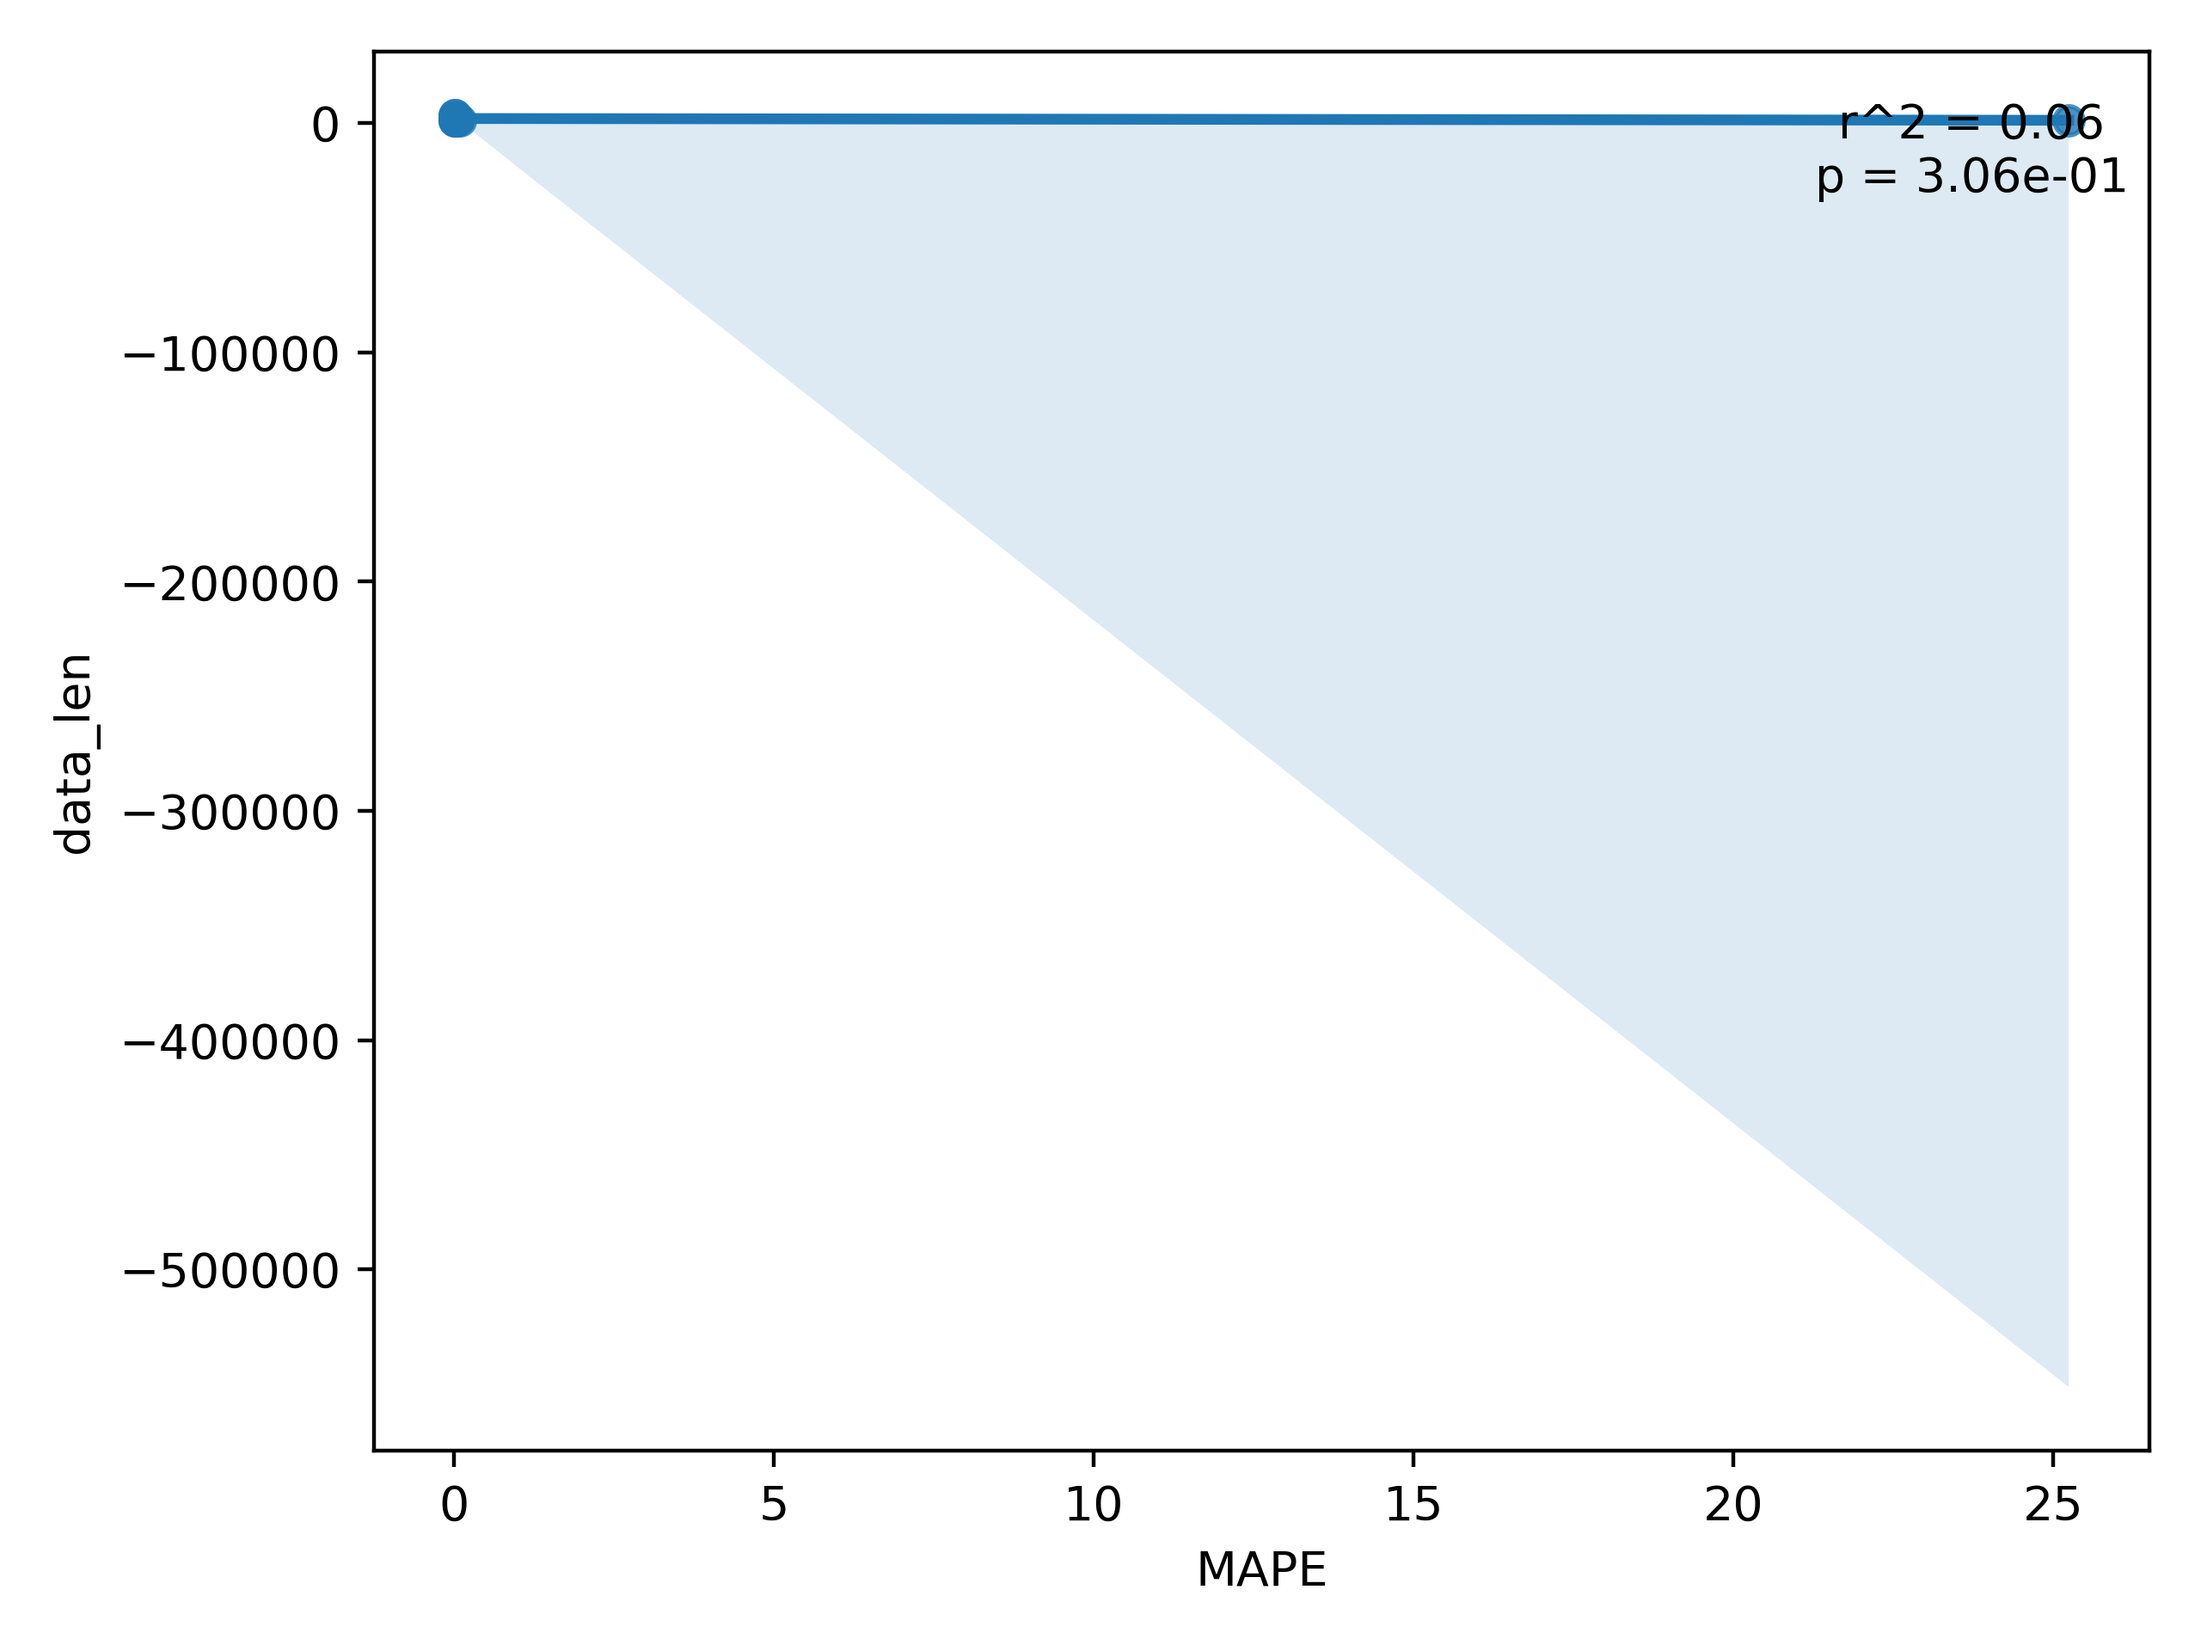
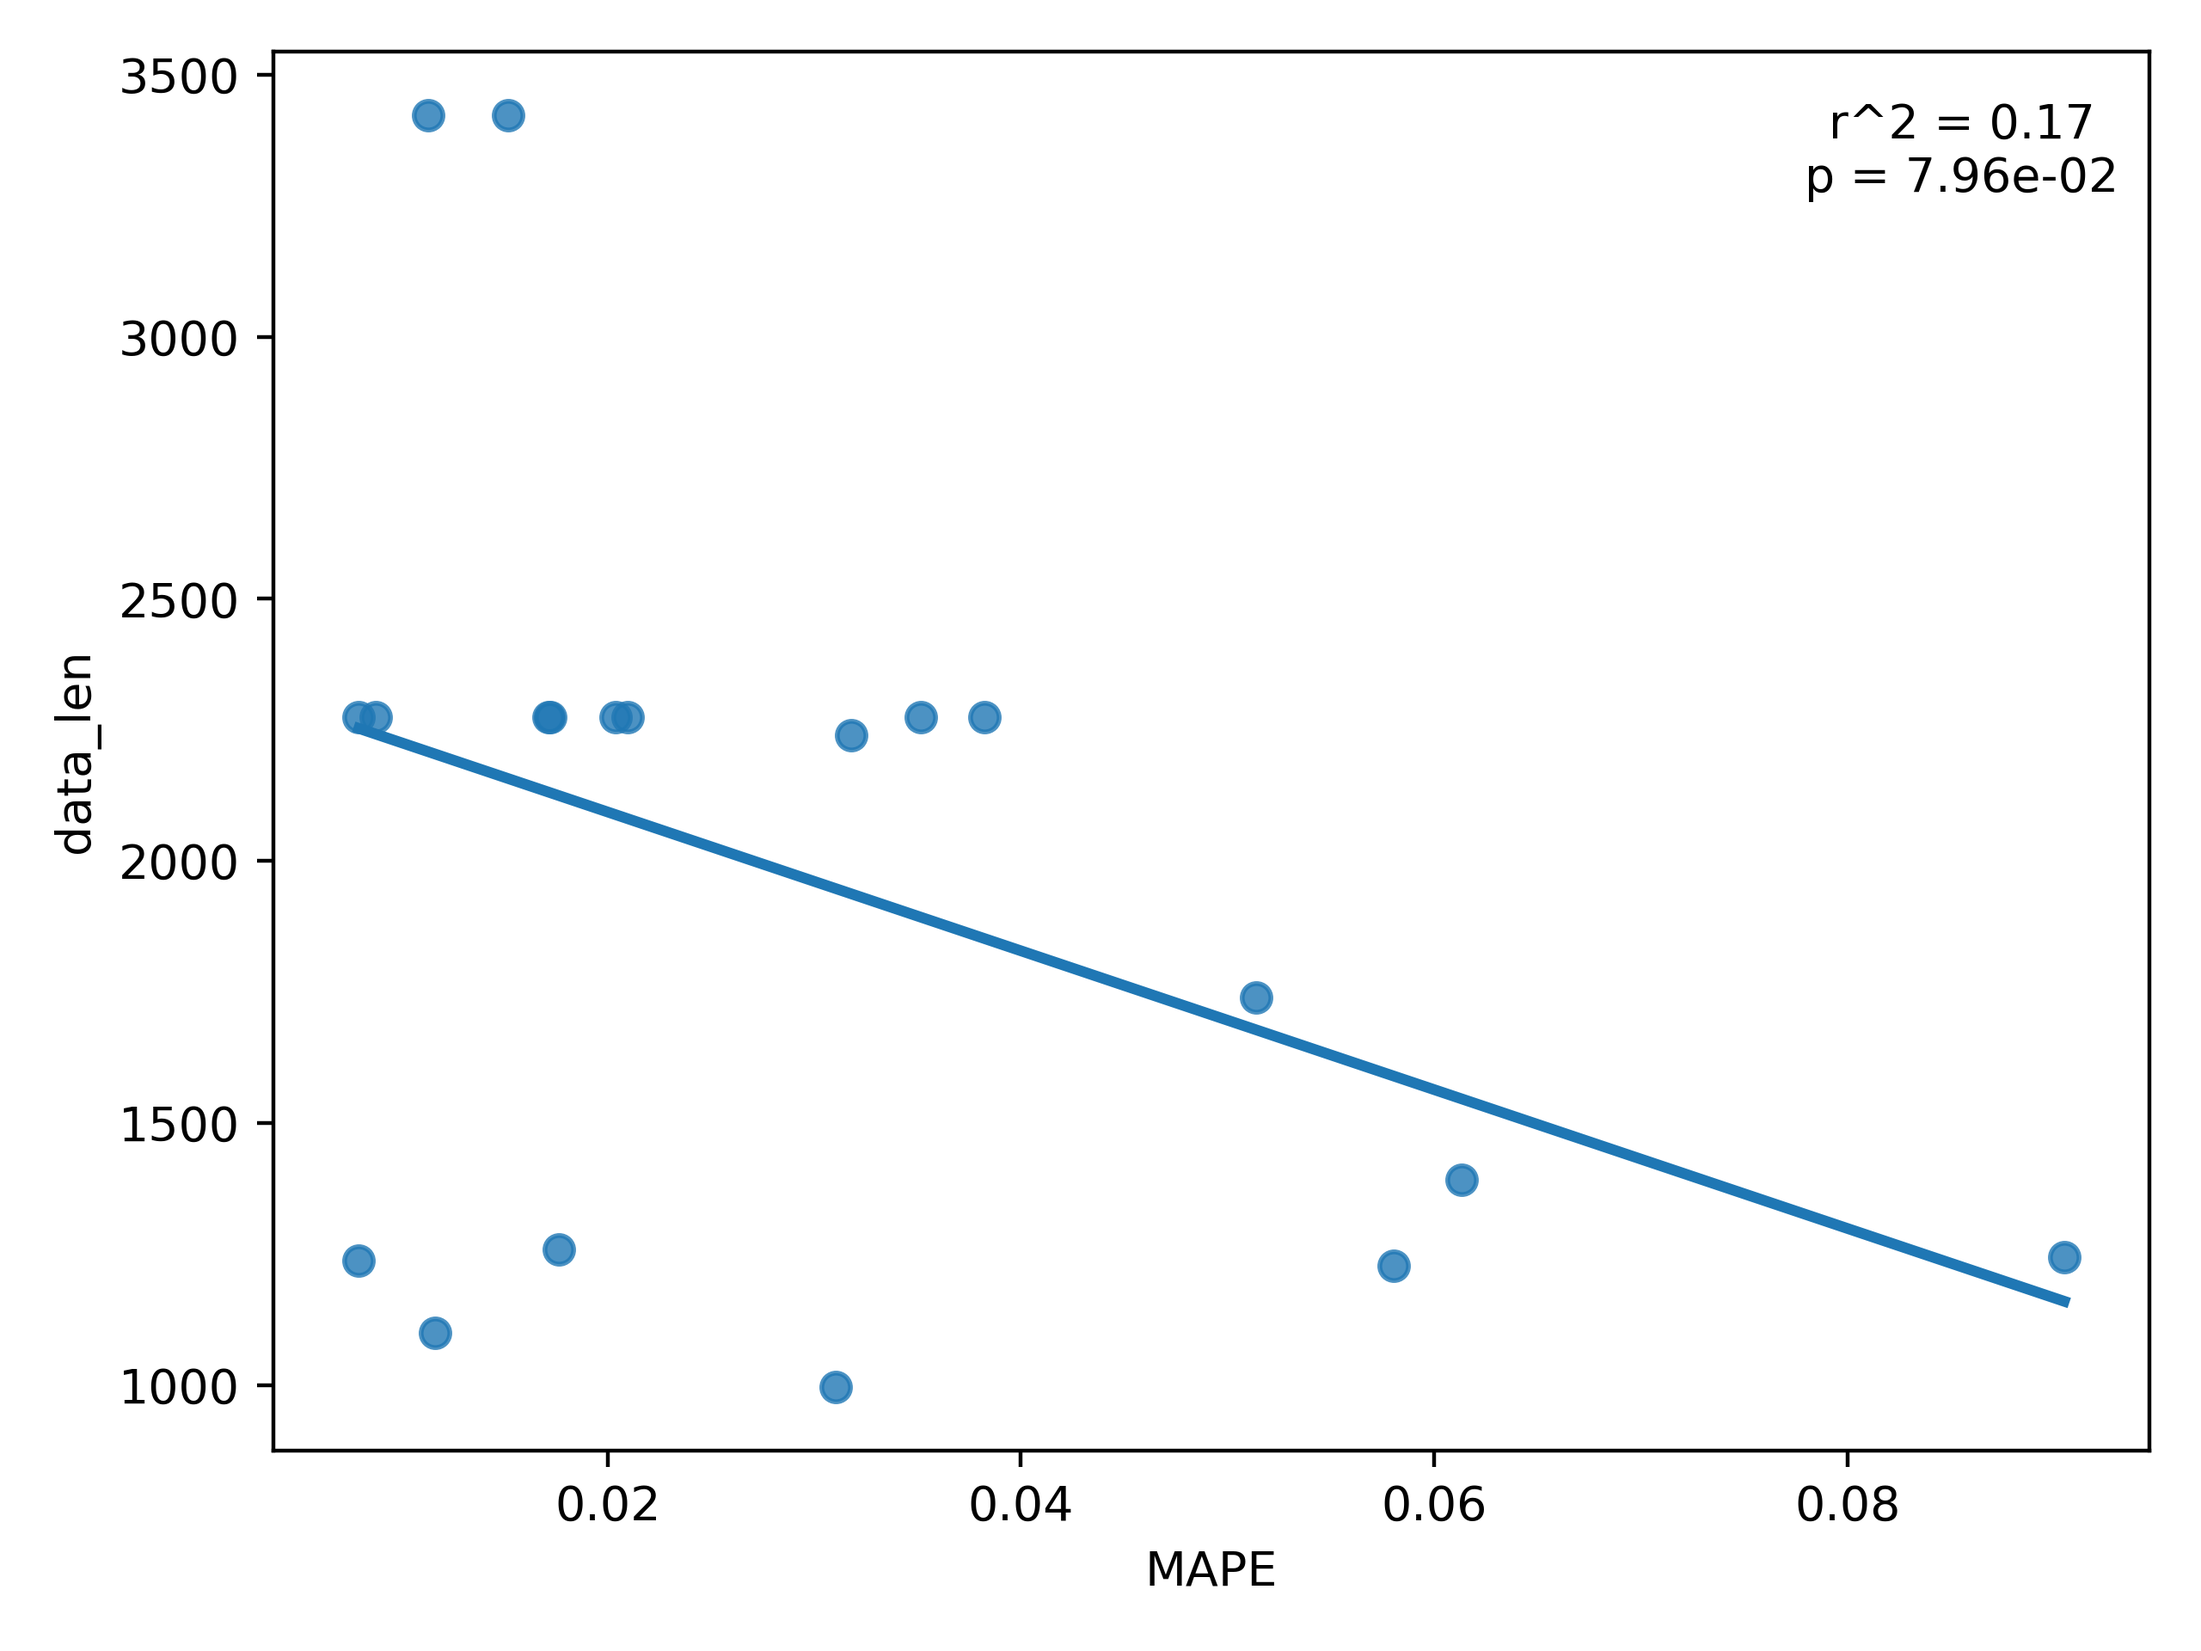
ADD: fix regplot

diff --git a/crypto_deep_many_features.py b/crypto_deep_many_features.py
@@ -575,7 +575,7 @@ class changePricePredictor:
         error_val = []
         #MAPE vs. ERR correlate
         for key, value in err_data.items():
-            if value[0] < 100:
+            if value[0] < 1:
                 print(f"Key: {key}, Value: {value}")
                 if key != "SP":
                     crypt_name = key + '-USD'
@@ -583,7 +583,7 @@ class changePricePredictor:
                     price_len.append(len(temp.history(period = 'max', interval="1d")))
                     error_val.append(value[0])
         data = pd.DataFrame({"MAPE":error_val,"data_len":price_len})
-        data = data[data['MAPE'] <= 35] #for visualization
+        # data = data[data['MAPE'] <= 35] #for visualization
         print('ERROR VS. MAPE DF')
         print(data.sort_values(by=['data_len'],ascending=False))
         r_val, p_val = pearsonr(data['MAPE'],data['data_len'])
@@ -608,7 +608,7 @@ class changePricePredictor:
         print('========================================================')
         print(f'PROPORTION CORRECT ON THOSE THAT THE MODEL PREDICTED WOULD BE POSITIVE: {(correct_classify / total_classify)*100}%')
         #plot
-        g = regplot(data,x='MAPE',y='data_len')
+        g = regplot(data,x='MAPE',y='data_len',ci=None)
         plt.text(0.9, 0.9, f'r^2 = {r_val**2:.2f}\np = {p_val:.2e}', transform=g.transAxes, ha='center')
         print(f"Correlation between MAPE vs. Length of the Price Data: {(r_val,p_val)}")
         print('========================================================')
